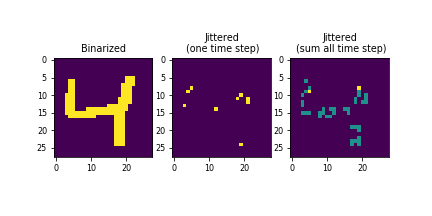
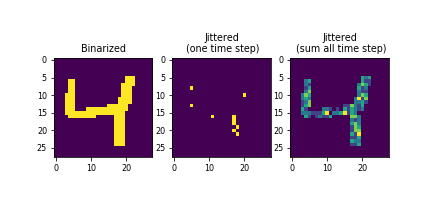
Update

diff --git a/train.py b/train.py
@@ -45,15 +45,15 @@ def main():
     parser = argparse.ArgumentParser()
     parser.add_argument('--gpu', '-g', type=int, default=-1)
     parser.add_argument('--model', '-m', type=str, default=None)
-    parser.add_argument('--batch', '-b', type=int, default=32)
+    parser.add_argument('--batch', '-b', type=int, default=64)
     parser.add_argument('--epoch', '-e', type=int, default=40)
     parser.add_argument('--ndata', '-nd', type=int, default=60000,
                         help='The number of analysis trials (<=60000).')
-    parser.add_argument('--time', '-t', type=int, default=5,
+    parser.add_argument('--time', '-t', type=int, default=20,
                         help='Total simulation time steps.')
     parser.add_argument('--dt', '-dt', type=float, default=1e-3,
                         help='Simulation time step size (sec).')
-    parser.add_argument('--freq', '-f', type=float, default=60,
+    parser.add_argument('--freq', '-f', type=float, default=100,
                         help='Input signal maximum frequency (Hz).')
     parser.add_argument('--lr', '-l', type=float, default=1e-4)
     parser.add_argument('--noplot', dest='plot', action='store_false',

diff --git a/check_jittered_mnist.py b/check_jittered_mnist.py
@@ -16,8 +16,8 @@ y = train[i][0]
 y = np.heaviside(y, 0)
 label = train[i][1]
 
-num_time = 5
-fr = 60 # Hz
+num_time = 20
+fr = 100 # Hz
 dt = 1e-3 # sec
 
 y_fr = fr * np.repeat(np.expand_dims(y, 1), num_time, axis=1)
